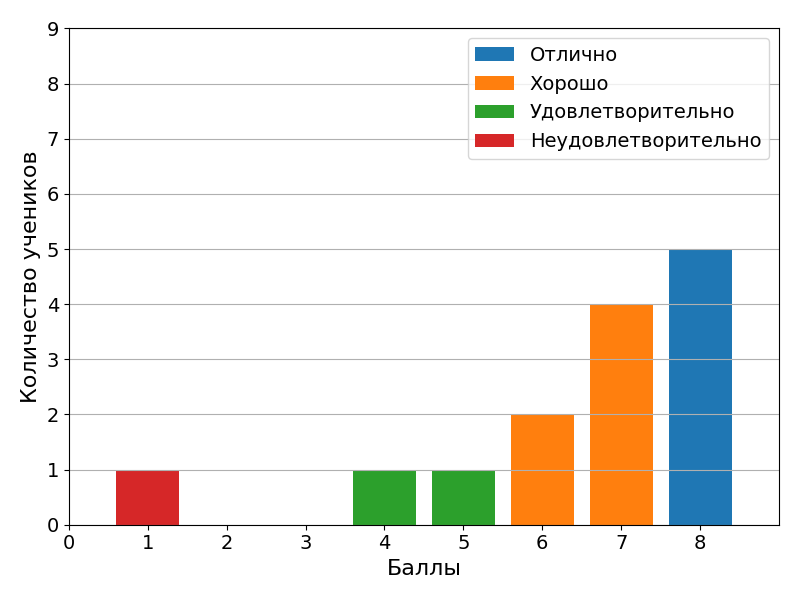
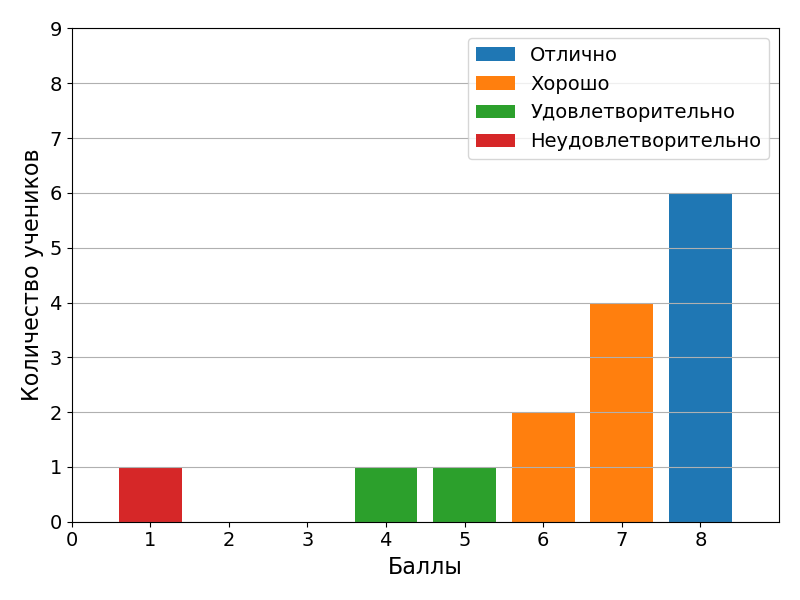
october points updated

diff --git a/playgroud/graph.py b/playgroud/graph.py
@@ -1,0 +1,71 @@
+import itertools
+from queue import Queue
+
+class Graph:
+    def __init__(self) -> None:
+        self.nodes = set()
+        self.adjlist = dict()
+    
+    def add_node(self, label):
+        self.nodes.add(label)
+        self.adjlist[label] = []
+
+    def add_edge(self, lbl1, lbl2):
+        self.adjlist[lbl1].append(lbl2)
+    
+    def __str__(self) -> str:
+        return '\n'.join(
+            [f'{key} -> {data}' for key, data in self.adjlist.items()]
+        )
+
+def depth_first_search(gr, start):
+    stack = [start]
+    visited = set()
+
+    while len(stack) != 0:
+        current_node = stack.pop()
+        if current_node in visited:
+            continue
+
+        print(current_node, end=' -> ')
+        visited.add(current_node)
+
+        for neib in gr.adjlist.get(current_node, []):
+            if neib not in visited:
+                stack.append(neib)
+
+def bredth_first_search(gr, start):
+    q = Queue()
+    q.put_nowait(start)
+    visited = set()
+
+    while not q.empty():
+        current_node = q.get_nowait()
+        if current_node in visited:
+            continue
+
+        print(current_node, end=' -> ')
+        visited.add(current_node)
+
+        for neib in gr.adjlist.get(current_node, []):
+            if neib not in visited:
+                q.put_nowait(neib)
+
+# kstr = ['000', '001', '010', '100', '011', '101', '110', '111']
+k = 3
+reads = [''.join(item) for item in itertools.product('01', repeat=k)]
+print(reads)
+
+gr = Graph()
+for item in reads:
+    gr.add_node(item[:-1])
+    gr.add_node(item[1:])
+
+for item in reads:
+    gr.add_edge(item[:-1], item[1:])
+
+print(gr)
+
+depth_first_search(gr, reads[0][:-1])
+print('')
+bredth_first_search(gr, reads[0][:-1])

diff --git a/playgroud/shifts.c b/playgroud/shifts.c
@@ -1,0 +1,40 @@
+#include <stdio.h>
+#include <time.h>
+#include <stdlib.h>
+
+long long fibb(int n) {
+    long long a = 0;
+    long long b = 1;
+    for (int i = 0; i < n; ++i) {
+        long long tmp = a;
+        a = b;
+        b = tmp + b;
+    }
+    return b;
+}
+
+long long fibb_bad(int n) {
+    if (n < 2) return 1;
+    return fibb_bad(n - 1) + fibb_bad(n - 2);
+}
+
+int main() {
+    FILE* fptr = fopen("numbers.txt", "r");
+    if (fptr == NULL) {
+        printf("Can't open file :(\n");
+        return 1;
+    }
+
+    char line[100];
+    int value;
+    while(!feof(fptr)) {
+        fscanf(fptr, "%s %d\n", line, &value);
+        // getline(line, 100, fptr);
+        // printf("%s -> %d\n", line, value);
+        printf("%s\n", line);
+    }
+
+    fclose(fptr);
+
+    return 0;
+}

diff --git a/playgroud/structs.c b/playgroud/structs.c
@@ -1,0 +1,15 @@
+#include <stdio.h>
+
+double rect_square(double x1, double y1, double x2, double y2) {
+    return (x2 - x1) * (y2 - y1);
+}
+
+double rect_intersect(
+        double x11, double y11, double x12, double y12,
+        double x21, double y21, double x22, double y22) {
+    
+}
+
+int main() {
+    return 0;
+}

diff --git a/playgroud/setlist.py b/playgroud/setlist.py
@@ -1,0 +1,18 @@
+l2 = [i**2 for i in range(10)]
+
+# d1 = dict()
+# d1['asd'] = 6
+# d1['adfjkladf'] = 18
+# d1['cxzcxc'] = 27
+
+d1 = {
+    'asd': 6,
+    'adfjkladf': 18,
+    'cxzcxc': 27,
+}
+
+print(d1['asd'])
+
+for key, value in d1.items():
+    print(f'{key} -> {value}')
+

diff --git a/seminars/2021-10-28/synopsis.md b/seminars/2021-10-28/synopsis.md
@@ -12,9 +12,9 @@ date: 2021-10-28
 |   ---    |---|---|---|---|---|---|---|
 | **2134** | - | - | - | - | - | - | **2** |
 | **1579** | 3 | 3 | 3 | 3 | 3 | - | **4** |
-| **8890** | - | - | 3 | 0 | 3 | 3 | **3** |
+| **8890** | 3 | - | 3 | 3 | 3 | 3 | **4** |
 | **2842** | - | - | - | - | - | - | **2** |
-| **2841** | 3 | 3 | 3 | 3 | 3 | - | **4** |
+| **2841** | 3 | 3 | 3 | 3 | 3 | 3 | **5** |
 | **1049** | 3 | 3 | 3 | 3 | 3 | 3 | **5** |
 | **0934** | 3 | 3 | 3 | 3 | 3 | 3 | **5** |
 | **1009** | - | - | - | - | - | - | **2** |
@@ -22,6 +22,6 @@ date: 2021-10-28
 | **5256** | - | - | - | - | - | - | **2** |
 | **7106** | - | - | - | - | - | - | **2** |
 | **3730** | 3 | 3 | 3 | 3 | 3 | 3 | **5** |
-| **4107** | 0 | 0 | 0 | 0 | 0 | - | **2** |
+| **4107** | 3 | - | 3 | 3 | 3 | 3 | **4** |
 | **1192** | 3 | - | 3 | 3 | 3 | - | **3** |
 | **1206** | - | - | - | - | - | - | **2** |
